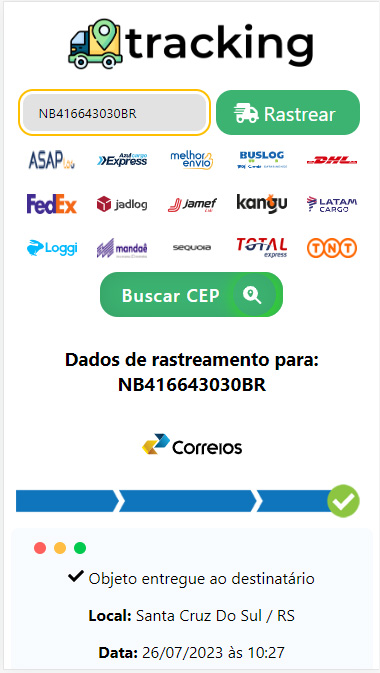
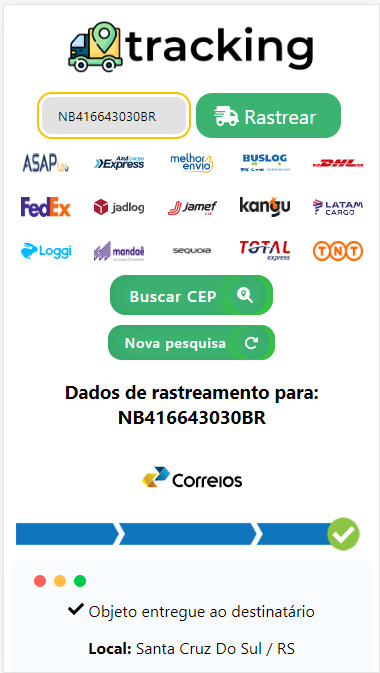
Adicionado botões de nova pesquisa

diff --git a/src/pages/homePage/HomePage.js b/src/pages/homePage/HomePage.js
@@ -107,12 +107,16 @@ const HomePage = () => {
         setButtonClicked(true);
     };
 
+    const handleReloadHomePage = () => {
+        window.location.reload();
+    };
+
     return (
         <div style={{ display: 'flex', flexDirection: 'column', justifyContent: 'center', alignItems: 'center', width: '100%' }}>
             <ToastContainer />
             <TrackCointainer>
                 <span>
-                    <TrackInput placeholder={"Digite seu código aqui"} value={codigo.toUpperCase()} onChange={(event) => setCodigo(event.target.value)} />
+                    <TrackInput placeholder={"Digite seu código"} value={codigo.toUpperCase()} onChange={(event) => setCodigo(event.target.value)} />
                 </span>
                 <span>
                     <TrackButtonV2 onClick={handleSearch} buttonClicked={buttonClicked} label='Rastrear' iconSvg={<path d="M112 0C85.5 0 64 21.5 64 48V96H16c-8.8 0-16 7.2-16 16s7.2 16 16 16H64 272c8.8 0 16 7.2 16 16s-7.2 16-16 16H64 48c-8.8 0-16 7.2-16 16s7.2 16 16 16H64 240c8.8 0 16 7.2 16 16s-7.2 16-16 16H64 16c-8.8 0-16 7.2-16 16s7.2 16 16 16H64 208c8.8 0 16 7.2 16 16s-7.2 16-16 16H64V416c0 53 43 96 96 96s96-43 96-96H384c0 53 43 96 96 96s96-43 96-96h32c17.7 0 32-14.3 32-32s-14.3-32-32-32V288 256 237.3c0-17-6.7-33.3-18.7-45.3L512 114.7c-12-12-28.3-18.7-45.3-18.7H416V48c0-26.5-21.5-48-48-48H112zM544 237.3V256H416V160h50.7L544 237.3zM160 368a48 48 0 1 1 0 96 48 48 0 1 1 0-96zm272 48a48 48 0 1 1 96 0 48 48 0 1 1 -96 0z" />} />
@@ -120,13 +124,16 @@ const HomePage = () => {
 
             </TrackCointainer>
             <LinksExternos />
-            <TrackButton onClick={handleNavigate} label='Buscar CEP' iconSvg={<path d="M416 208c0 45.9-14.9 88.3-40 122.7L502.6 457.4c12.5 12.5 12.5 32.8 0 45.3s-32.8 12.5-45.3 0L330.7 376c-34.4 25.2-76.8 40-122.7 40C93.1 416 0 322.9 0 208S93.1 0 208 0S416 93.1 416 208zM288 176c0-44.2-35.8-80-80-80s-80 35.8-80 80c0 48.8 46.5 111.6 68.6 138.6c6 7.3 16.8 7.3 22.7 0c22.1-27 68.6-89.8 68.6-138.6zm-112 0a32 32 0 1 1 64 0 32 32 0 1 1 -64 0z" />} />
+            <TrackButton onClick={handleNavigate} label='Buscar CEP' style={{ fontSize: '16px' }} iconSvg={<path d="M416 208c0 45.9-14.9 88.3-40 122.7L502.6 457.4c12.5 12.5 12.5 32.8 0 45.3s-32.8 12.5-45.3 0L330.7 376c-34.4 25.2-76.8 40-122.7 40C93.1 416 0 322.9 0 208S93.1 0 208 0S416 93.1 416 208zM288 176c0-44.2-35.8-80-80-80s-80 35.8-80 80c0 48.8 46.5 111.6 68.6 138.6c6 7.3 16.8 7.3 22.7 0c22.1-27 68.6-89.8 68.6-138.6zm-112 0a32 32 0 1 1 64 0 32 32 0 1 1 -64 0z" />} />
             {error && <p style={{ color: 'red', width: '70%' }}>{error}</p>}
             {loading ? (
                 <TrackLoader />
             ) : (
                 apiData ? (
                     <div style={{ margin: '10px' }}>
+                        <div style={{ display: 'flex', justifyContent: 'center' }}>
+                            <TrackButton onClick={handleReloadHomePage} label='Nova pesquisa' style={{ fontSize: '14px' }} iconSvg={<path d="M463.5 224H472c13.3 0 24-10.7 24-24V72c0-9.7-5.8-18.5-14.8-22.2s-19.3-1.7-26.2 5.2L413.4 96.6c-87.6-86.5-228.7-86.2-315.8 1c-87.5 87.5-87.5 229.3 0 316.8s229.3 87.5 316.8 0c12.5-12.5 12.5-32.8 0-45.3s-32.8-12.5-45.3 0c-62.5 62.5-163.8 62.5-226.3 0s-62.5-163.8 0-226.3c62.2-62.2 162.7-62.5 225.3-1L327 183c-6.9 6.9-8.9 17.2-5.2 26.2s12.5 14.8 22.2 14.8H463.5z" />} />
+                        </div>
                         <TrackingInfo trackingData={apiData} />
                     </div>
                 ) : (

diff --git a/src/components/trackHistory/TrackHistory.js b/src/components/trackHistory/TrackHistory.js
@@ -1,6 +1,6 @@
 import { styled } from "styled-components"
 import { StyledTrashIcon } from "../../pages/homePage/HomePageStyled"
-import { FaBox, FaCheck, FaExclamationCircle, FaFlag, FaTimesCircle, FaTruck } from "react-icons/fa"
+import { FaBan, FaBox, FaCheck, FaClipboardCheck, FaExclamationCircle, FaFlag, FaMoneyBill, FaTimesCircle, FaTruck, FaUndo } from "react-icons/fa"
 import { FontAwesomeIcon } from '@fortawesome/react-fontawesome';
 import { faCircleXmark } from '@fortawesome/free-solid-svg-icons';
 const TrackHistory = ({ searchHistory, handleSearchFromHistory, handleDeleteSearch }) => {
@@ -9,6 +9,11 @@ const TrackHistory = ({ searchHistory, handleSearchFromHistory, handleDeleteSear
             "Status não disponível": <FontAwesomeIcon icon={faCircleXmark} />,
             "Objeto postado": <FaBox />,
             "Objeto recebido pelos Correios do Brasil": <FaFlag />,
+            "Encaminhado para fiscalização aduaneira": <FaClipboardCheck />,
+            "Aguardando pagamento": <FaMoneyBill />,
+            "Destinatário recusou o objeto": <FaBan />,
+            "Devolução autorizada pela Receita Federal": <FaUndo />,
+            "Objeto devolvido ao país de origem": <FaUndo />,
             "Fiscalização aduaneira finalizada": <FaCheck />,
             "Objeto encaminhado": <FaTruck />,
             "Objeto saiu para entrega ao destinatário": <FaExclamationCircle />,

diff --git a/src/pages/TrackingInfo.js b/src/pages/TrackingInfo.js
@@ -1,6 +1,6 @@
 import React from 'react';
 import { Box } from "@chakra-ui/react";
-import { FaTruck, FaFlag, FaCheck, FaBox, FaExclamationCircle, FaTimesCircle, FaChevronCircleUp } from "react-icons/fa";
+import { FaTruck, FaFlag, FaCheck, FaBox, FaExclamationCircle, FaTimesCircle, FaChevronCircleUp, FaClipboardCheck, FaMoneyBill, FaBan, FaUndo } from "react-icons/fa";
 import logoCorreios from '../assets/correios.svg'
 import StatusBar from '../components/loadersButtons/StatusBar';
 import TrackPrint from '../components/loadersButtons/TrackPrint';
@@ -10,6 +10,11 @@ const getIconForStatus = (status) => {
     const statusDict = {
         "Objeto postado": <FaBox />,
         "Objeto recebido pelos Correios do Brasil": <FaFlag />,
+        "Encaminhado para fiscalização aduaneira": <FaClipboardCheck />,
+        "Aguardando pagamento": <FaMoneyBill />,
+        "Destinatário recusou o objeto": <FaBan />,
+        "Devolução autorizada pela Receita Federal": <FaUndo />,
+        "Objeto devolvido ao país de origem": <FaUndo />,
         "Fiscalização aduaneira finalizada": <FaCheck />,
         "Objeto encaminhado": <FaTruck />,
         "Objeto saiu para entrega ao destinatário": <FaExclamationCircle />,

diff --git a/src/pages/buscaCep/BuscaCep.js b/src/pages/buscaCep/BuscaCep.js
@@ -75,6 +75,9 @@ const BuscaCep = () => {
         setCepData(null); // Limpa o estado de dados da API
         setButtonClicked(true);
     };
+    const handleReloadHomePage = () => {
+        window.location.reload();
+    };
 
     return (
         <div style={{ display: 'flex', flexDirection: 'column', justifyContent: 'center', alignItems: 'center', width: '100%' }}>
@@ -94,6 +97,9 @@ const BuscaCep = () => {
             ) : (
                 cepData ? (
                     <div>
+                        <div style={{ display: 'flex', justifyContent: 'center' }}>
+                            <TrackButton onClick={handleReloadHomePage} label='Nova pesquisa' style={{ fontSize: '14px' }} iconSvg={<path d="M463.5 224H472c13.3 0 24-10.7 24-24V72c0-9.7-5.8-18.5-14.8-22.2s-19.3-1.7-26.2 5.2L413.4 96.6c-87.6-86.5-228.7-86.2-315.8 1c-87.5 87.5-87.5 229.3 0 316.8s229.3 87.5 316.8 0c12.5-12.5 12.5-32.8 0-45.3s-32.8-12.5-45.3 0c-62.5 62.5-163.8 62.5-226.3 0s-62.5-163.8 0-226.3c62.2-62.2 162.7-62.5 225.3-1L327 183c-6.9 6.9-8.9 17.2-5.2 26.2s12.5 14.8 22.2 14.8H463.5z" />} />
+                        </div>
                         <CepInfo cepData={cepData} />
                     </div>
                 ) : (

diff --git a/src/components/loadersButtons/StatusBar.js b/src/components/loadersButtons/StatusBar.js
@@ -1,6 +1,7 @@
 import barPost from '../../assets/postagem.gif'
 import barAlert from '../../assets/aviso.gif'
 import barTransit from '../../assets/transito.gif'
+import barReturned from '../../assets/devolucao_transito.gif'
 import barDelivered from '../../assets/entrega.gif'
 
 const StatusBar = ({ evento }) => {
@@ -8,6 +9,7 @@ const StatusBar = ({ evento }) => {
         const barStatusDict = {
             "Objeto postado": barPost,
             "Objeto encaminhado": barTransit,
+            "Objeto devolvido ao país de origem": barReturned,
             "Objeto entregue ao destinatário": barDelivered,
         }
         return barStatusDict[status] || barAlert

diff --git a/src/components/loadersButtons/TrackButton.js b/src/components/loadersButtons/TrackButton.js
@@ -1,5 +1,5 @@
 import './styled.css'
-const TrackButton = ({ onClick, label, iconSvg }) => {
+const TrackButton = ({ onClick, label, iconSvg, style }) => {
     const handleClick = () => {
         onClick();
     };
@@ -12,7 +12,7 @@ const TrackButton = ({ onClick, label, iconSvg }) => {
     };
 
     return (
-        <button className="contactButton" onClick={handleClick} >
+        <button className="contactButton" onClick={handleClick} style={style} >
             {label}
             <div className="iconButton">
                 <SvgIcon icon={iconSvg} color="#ffffff" />

diff --git a/src/App.js b/src/App.js
@@ -8,8 +8,8 @@ function App() {
     // <div className="App">
     <div style={{ display: 'flex', flexDirection: 'column', justifyContent: 'space-between', minHeight: '100vh', padding: '5px' }}>
       <div style={{ display: 'flex', flexDirection: 'column', justifyContent: 'center', alignItems: 'center', textAlign: 'center' }}>
-        <Header />
-        <Router />
+      <Header />
+      <Router />
       </div>
       <Footer />
     </div>

diff --git a/src/components/cepHistory/CepHistory.js b/src/components/cepHistory/CepHistory.js
@@ -43,7 +43,7 @@ const CepHistoryContainer = styled.div`
         margin: 5px;
         margin-top: 5px;
         justify-content: space-between;
-        width: 95%; 
+        width: 99%; 
         border-bottom: 1px solid #f1f1f1;
         span {
             margin-right: 8px;

diff --git a/src/components/linksExternos/LinksExternosStyled.js b/src/components/linksExternos/LinksExternosStyled.js
@@ -4,6 +4,7 @@ export const Main = styled.div`
     display: grid;
     grid-template-columns: 1fr 1fr 1fr 1fr 1fr;
     justify-content: center;
+    width: 100%;
 `
 export const Logo = styled.img`
     /* display: inline-block;  */

diff --git a/src/components/loadersButtons/styled.css b/src/components/loadersButtons/styled.css
@@ -10,6 +10,7 @@
   padding: 10px 1rem;
   transition: 0.25s;
   /* height: 1.5em; */
+  width: 7rem;
 }
 
 .input:focus {

diff --git a/README.md b/README.md
@@ -14,13 +14,13 @@ O site criado é uma aplicação web de rastreamento de encomendas e consulta de
 
 O repositório do projeto pode ser encontrado [aqui](https://github.com/marleopr/tracking)
 
-| Tela de Rastreamento de encomendas                                    | Encomenda rastreada                                       |
-| --------------------------------------------------------------------- | --------------------------------------------------------- |
-| ![Tela de Rastreamento de encomendas](src\assets\Rastrear-inicio.jpg) | ![Encomenda rastreada](src\assets\Rastrear-rastreado.jpg) |
+| Tela de Rastreamento de encomendas          | Encomenda rastreada                            |
+| ------------------------------------------- | ---------------------------------------------- |
+| <img src="src\assets\Rastrear-inicio.jpg" > | <img src="src\assets\Rastrear-rastreado.jpg" > |
 
-| Tela de pesquisa de CEPs                                         | CEP pesquisado                                       |
-| ---------------------------------------------------------------- | ---------------------------------------------------- |
-| ![Tela de Rastreamento de encomendas](src\assets\cep-inicio.jpg) | ![Encomenda rastreada](src\assets\cep-rastreado.jpg) |
+| Tela de pesquisa de CEPs               | CEP pesquisado                            |
+| -------------------------------------- | ----------------------------------------- |
+| <img src="src\assets\cep-inicio.jpg" > | <img src="src\assets\cep-rastreado.jpg" > |
 
 # `Passo a Passo para Instalação do Projeto React:`
 
